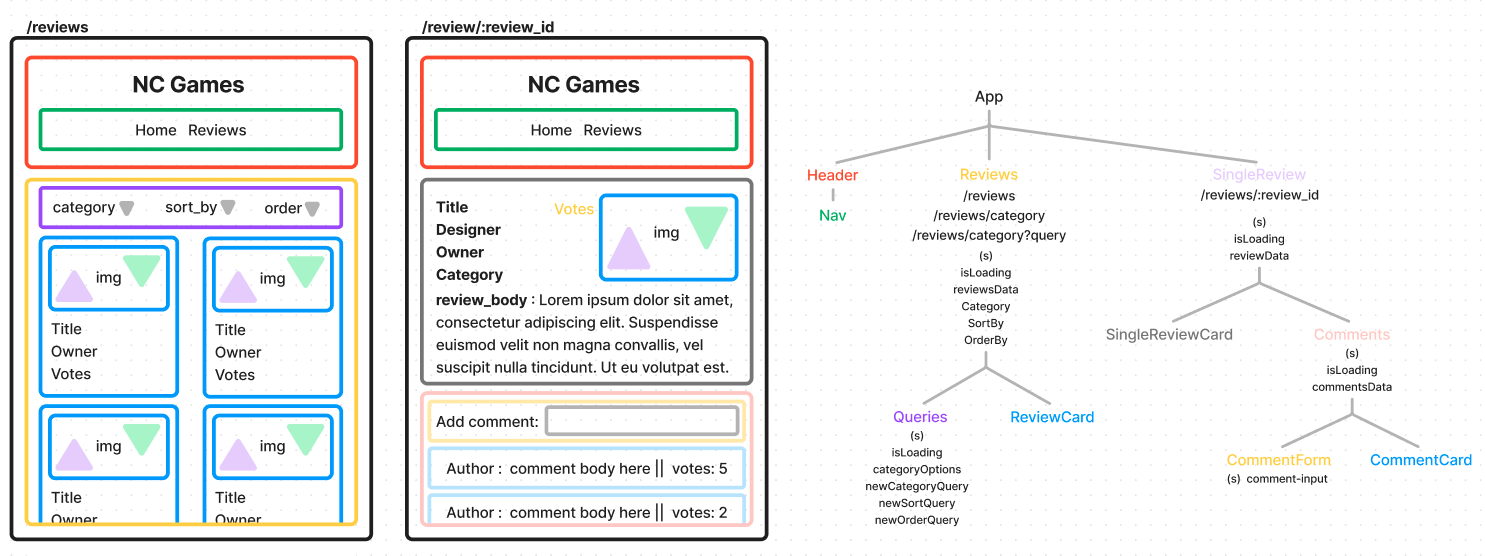
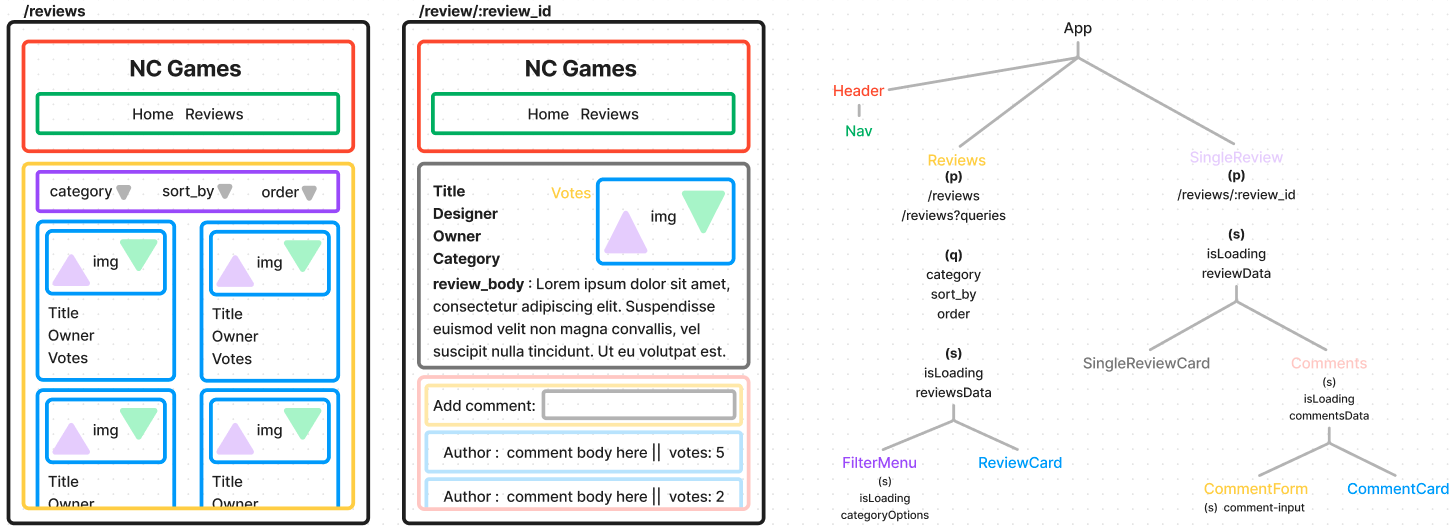
update to plan

diff --git a/src/App.js b/src/App.js
@@ -1,7 +1,17 @@
 import "./App.css";
+import { Header } from "./components/Header";
+import { Reviews } from "./components/Reviews";
+import { Routes, Route } from 'react-router-dom';
 
 function App() {
-  return <div className="App"></div>;
+  return (
+    <div className="App">
+      <Header />
+      <Routes>
+      <Reviews />
+      <Routes/>
+    </div>
+  );
 }
 
 export default App;

diff --git a/src/index.js b/src/index.js
@@ -2,6 +2,11 @@ import React from "react";
 import ReactDOM from "react-dom/client";
 import "./index.css";
 import App from "./App";
+import { BrowserRouter } from "react-router-dom";
 
 const root = ReactDOM.createRoot(document.getElementById("root"));
-root.render(<App />);
+root.render(
+  <BrowserRouter>
+    <App />
+  </BrowserRouter>
+);

diff --git a/src/components/FilterMenu.jsx b/src/components/FilterMenu.jsx
@@ -1,0 +1,1 @@
+export const FilterMenu = () => <p>FilterMenu!</p>;

diff --git a/src/components/ReviewCard.jsx b/src/components/ReviewCard.jsx
@@ -1,0 +1,1 @@
+export const ReviewCard = () => <p>ReviewCard!</p>;

diff --git a/src/components/Reviews.jsx b/src/components/Reviews.jsx
@@ -1,0 +1,1 @@
+export const Reviews = () => <p>Reviews!</p>;

diff --git a/src/components/Header.jsx b/src/components/Header.jsx
@@ -1,0 +1,1 @@
+export const Header = () => <p>Header!</p>;

diff --git a/src/components/Nav.jsx b/src/components/Nav.jsx
@@ -1,0 +1,1 @@
+export const Nav = () => <p>Nav!</p>;
